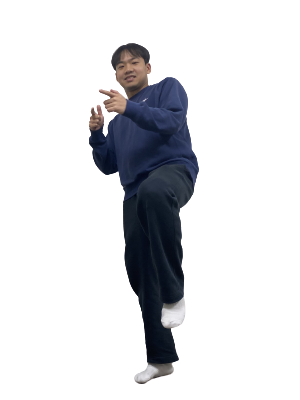
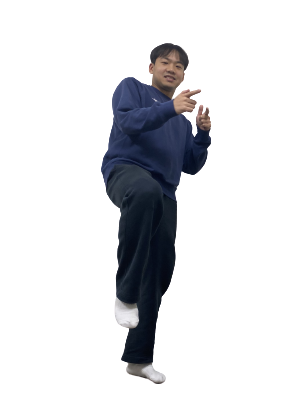
update: 태준/주환 이미지 순서 및 좌우 변경

Changed region(s): [[0.3, 0.09, 0.72, 0.96]]

diff --git a/packages/client/src/components/lobby/game-mode-guide/GameModeGuide.tsx b/packages/client/src/components/lobby/game-mode-guide/GameModeGuide.tsx
@@ -134,7 +134,7 @@ const Mode = styled.div<{ mode: string }>`
 `;
 
 const mode = ['노말', '블러', '회전', '축소'];
-const modeImg = [joohwanImg, taejunImg, taeukImg, jeheeImg];
+const modeImg = [taejunImg, joohwanImg, taeukImg, jeheeImg];
 const sound = [ButtonClick4, Blur, Spin, SizeDown];
 
 function GameModeGuide() {
